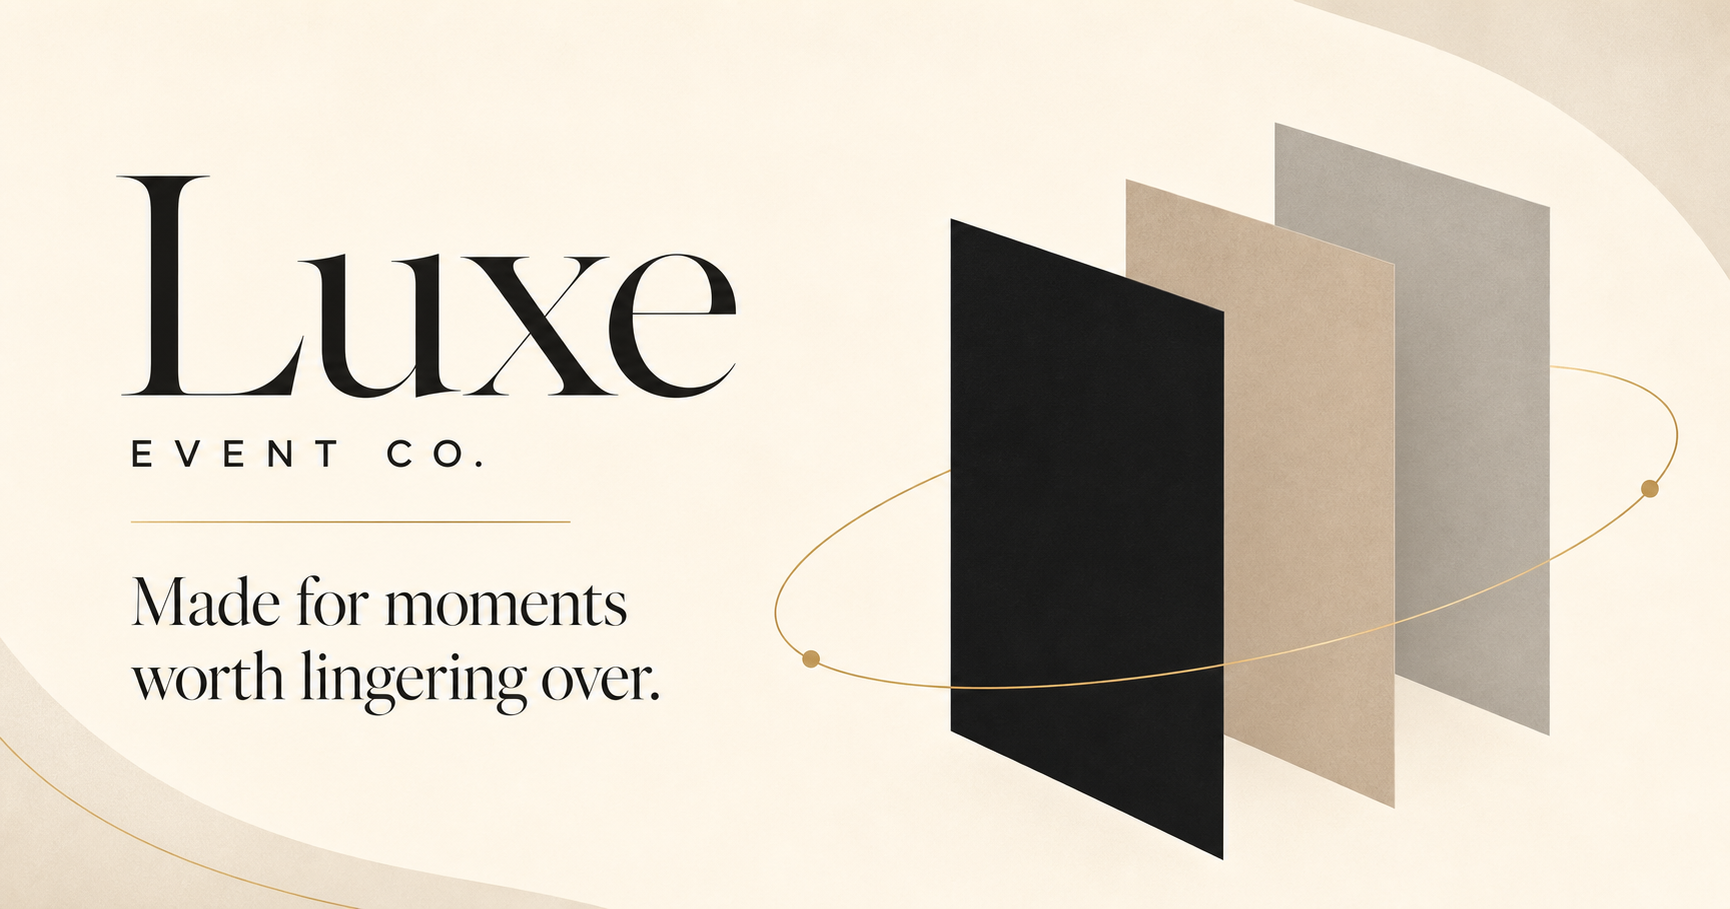
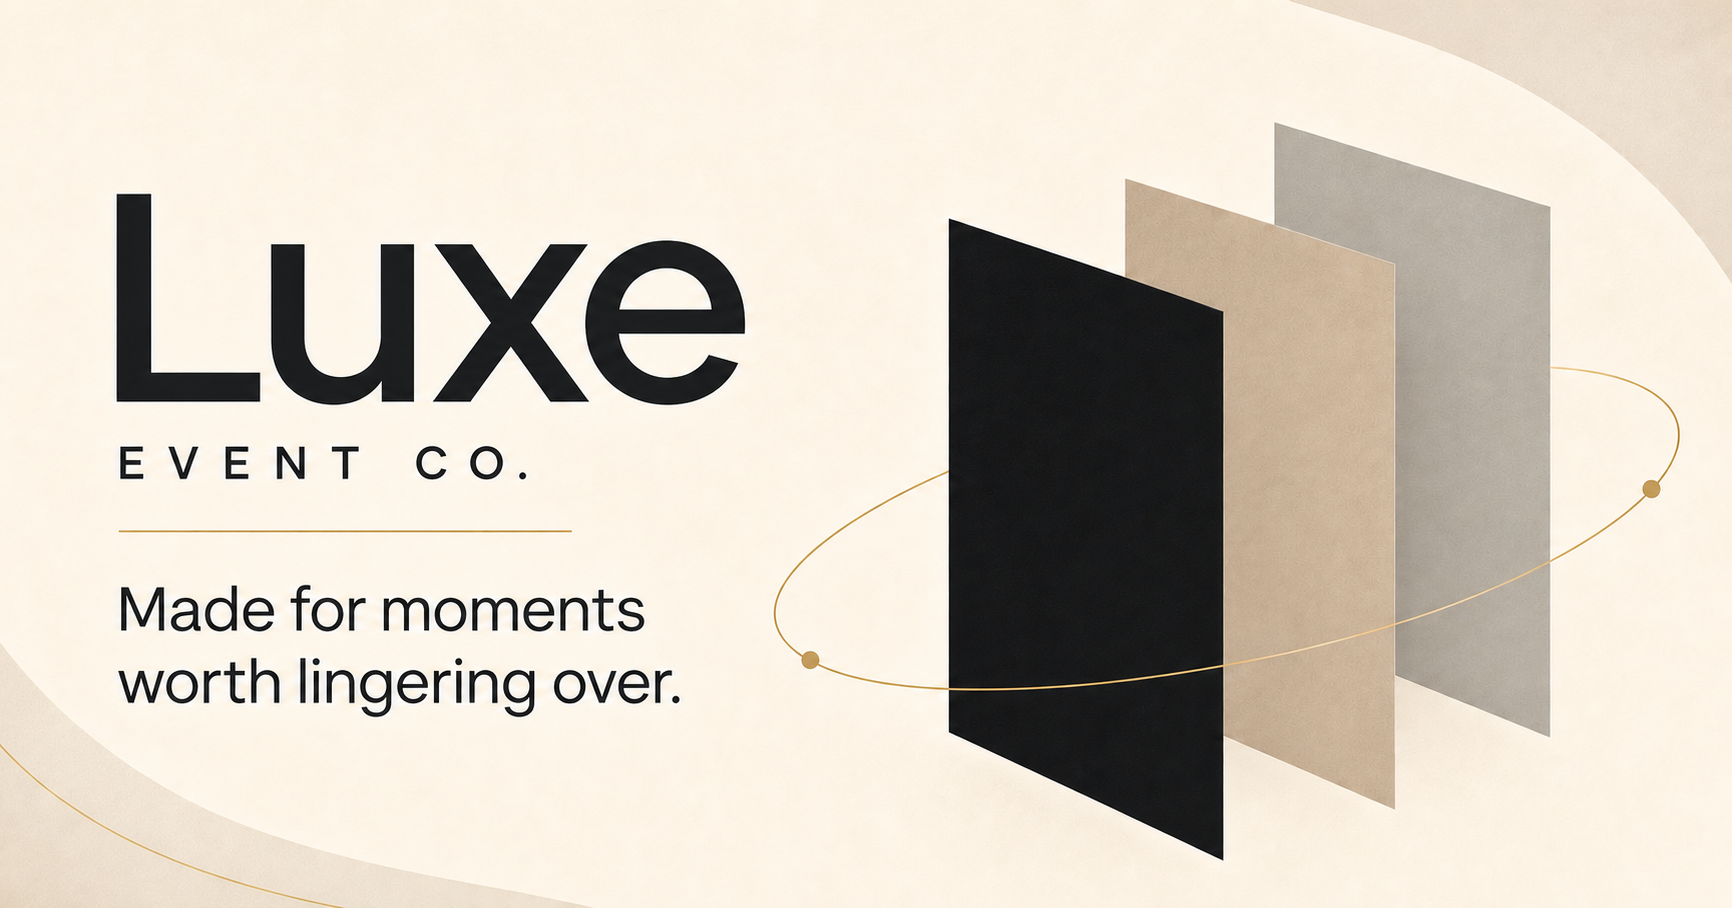
Match OG artwork typography to site

diff --git a/app/layout.tsx b/app/layout.tsx
@@ -24,7 +24,7 @@ export async function generateMetadata(): Promise<Metadata> {
       title: "Luxe Event Co.",
       description: "Made for moments worth lingering over.",
       type: "website",
-      images: [{ url: "/og.png", width: 1733, height: 909, alt: "Luxe Event Co." }],
+      images: [{ url: "/og.png", width: 1732, height: 908, alt: "Luxe Event Co." }],
     },
     twitter: {
       card: "summary_large_image",
